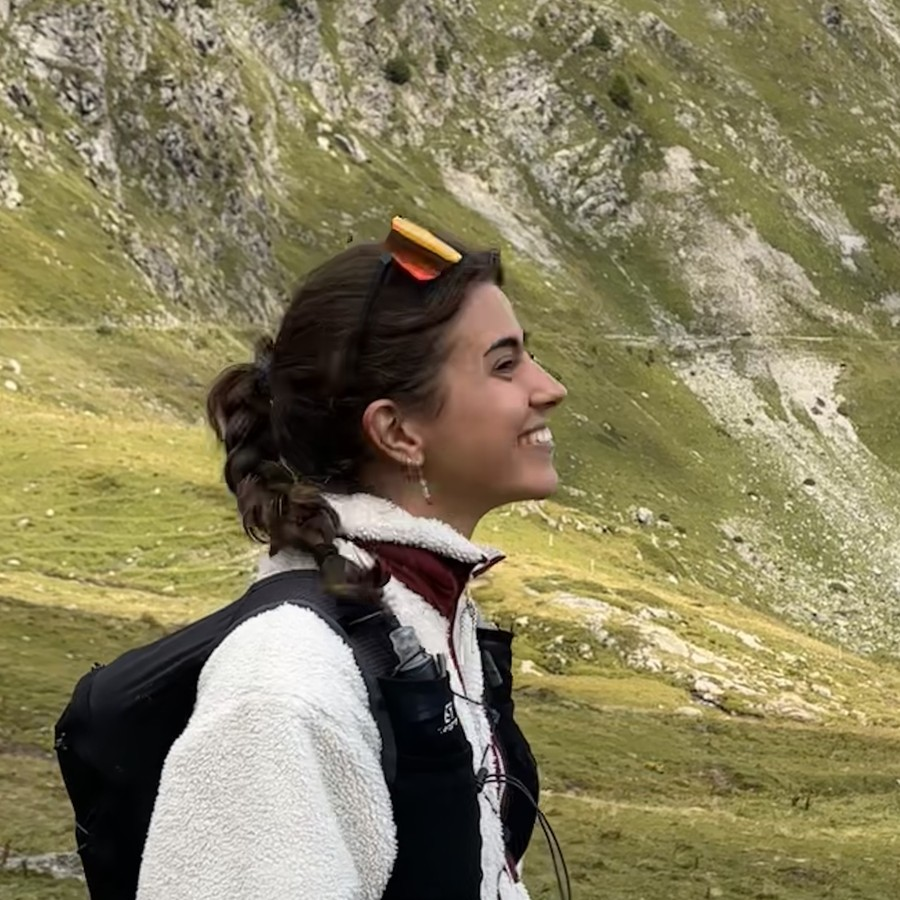
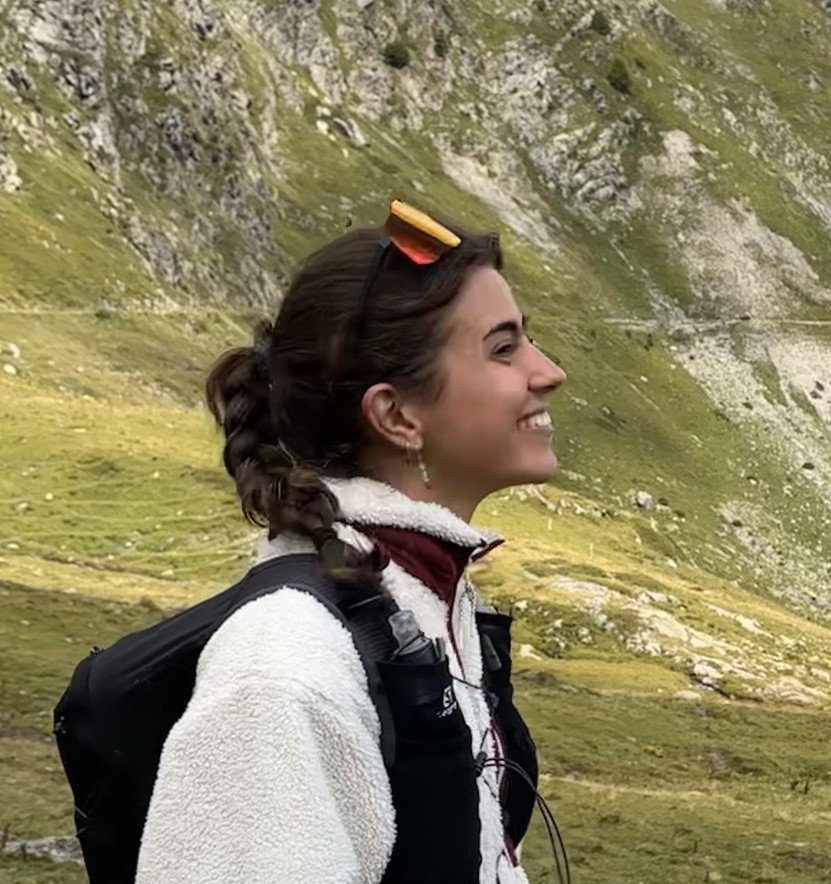
new images

diff --git a/index.html b/index.html
@@ -49,7 +49,7 @@
           <div class="photo-swap" tabindex="0">
             <div class="photo-flip">
               <img class="photo-a" src="figs/profile-photo.jpg" alt="Anna Oliveras Tous smiling outdoors in the mountains" width="260" height="260">
-              <img class="photo-b" src="figs/profile-photo-alt.jpg" alt="Anna Oliveras Tous hiking, with the surrounding mountain valley in view" width="260" height="260">
+              <img class="photo-b" src="figs/profile-photo-alt.jpg" alt="Anna Oliveras Tous presenting her research at an academic conference" width="260" height="260">
             </div>
           </div>
           <a class="orbit-node orbit-node-cv" href="cv.pdf" download aria-label="Download CV PDF">
